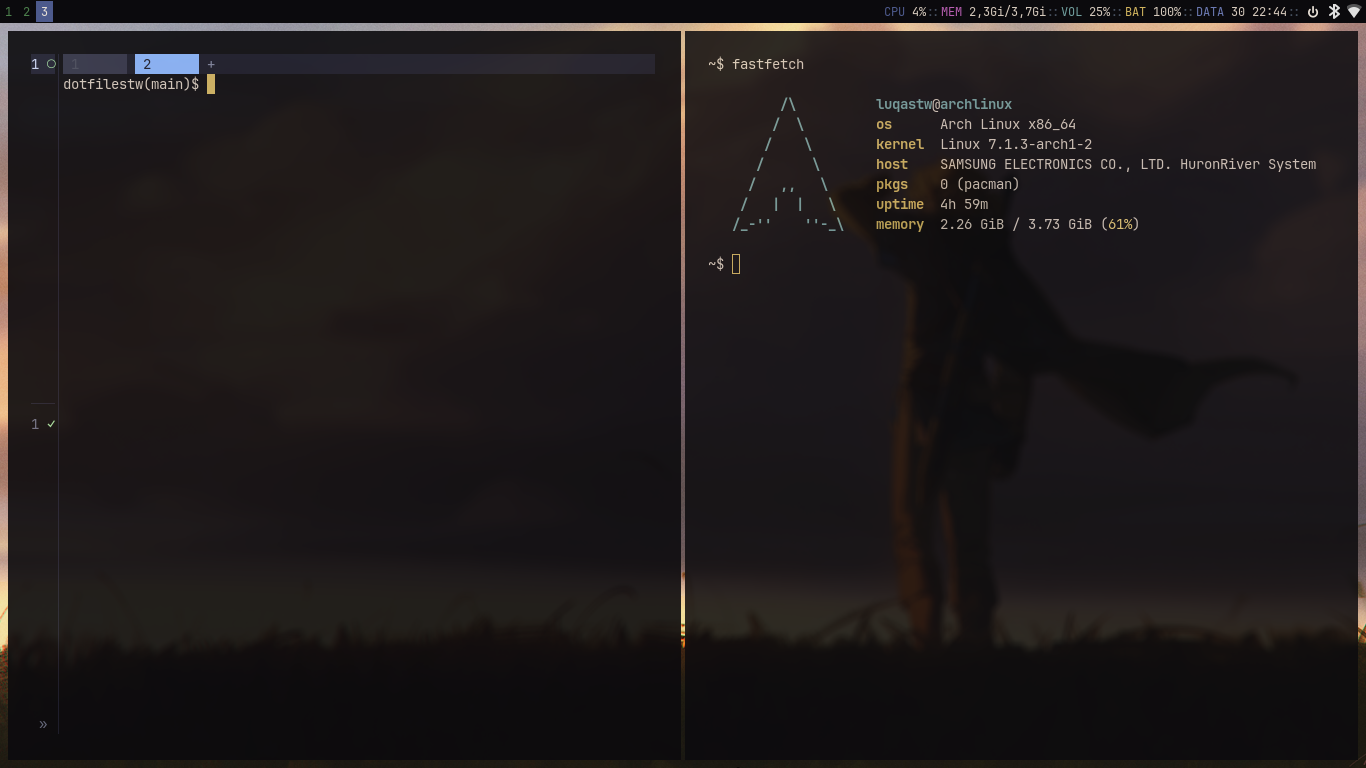
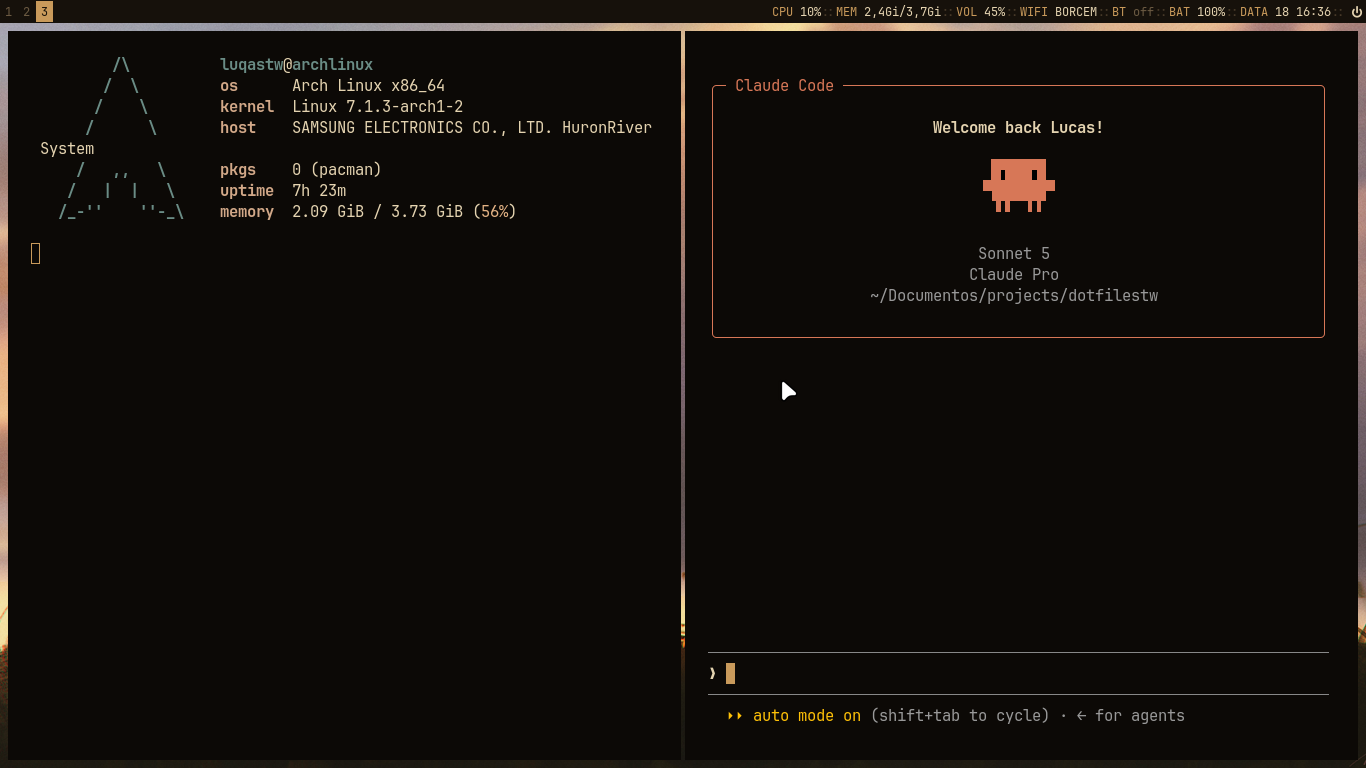
docs: update README for rofi and refresh screenshots

diff --git a/README.md b/README.md
@@ -1,6 +1,7 @@
 # dotfilestw 🌇
 
 ![](screenshots/desktop.png)
+![](screenshots/rofi.png)
 ![](screenshots/split-terminals.png)
 
 My personal Arch Linux rice: i3wm + Alacritty + picom + dunst, tied together with
@@ -57,7 +58,7 @@ For additional details or troubleshooting, visit the [issues page](https://githu
 | Action              | Keybind             | Description                    |
 |----------------------|----------------------|---------------------------------|
 | Terminal             | `SUPER + RETURN`     | Launch Alacritty                |
-| App Launcher         | `SUPER + D`          | Launch dmenu                    |
+| App Launcher         | `SUPER + D`          | Launch rofi (`drun`)            |
 
 ---
 
@@ -65,10 +66,15 @@ For additional details or troubleshooting, visit the [issues page](https://githu
 
 | Action                    | Keybind                  | Description                          |
 |----------------------------|----------------------------|----------------------------------------|
-| Screenshot (full, clipboard) | `SUPER + F11`            | Copy full screenshot via maim + xclip |
+| Screenshot (full, clipboard) | `SUPER + F11`            | Copy full screenshot via maim + xclip, notify-send confirms |
 | Screenshot (select, clipboard) | `SUPER + SHIFT + F11`  | Copy selected-area screenshot         |
 | Screenshot (scrot)         | `SUPER + Z` then `S`      | Enter special mode, take scrot -s     |
-| Power Menu                | Click power block on bar  | Runs `power_dmenu.sh` (lock/exit/suspend/reboot/shutdown) |
+| Toggle Scratchpad Terminal  | `SUPER + minus`          | Show/hide dropdown Alacritty (auto-spawns) |
+| Stash Window to Scratchpad  | `SUPER + SHIFT + minus`  | Move focused window to the general scratchpad pool |
+| Cycle Scratchpad Pool       | `SUPER + equal`          | Show next stashed scratchpad window |
+| Power Menu                | Click power block on bar  | Runs `power_dmenu.sh` (rofi: lock/exit/suspend/reboot/shutdown) |
+| Wifi Toggle / Manage       | Click / right-click wifi block on bar | Toggles radio via nmcli, right-click opens `nmtui` |
+| Bluetooth Toggle / Manage  | Click / right-click BT block on bar | Toggles power via bluetoothctl, right-click opens `blueman-manager` |
 | Volume Up/Down/Mute        | `XF86AudioRaiseVolume` / `LowerVolume` / `Mute` | Adjusts volume via pactl |
 
 ---
@@ -178,7 +184,7 @@ Prefix key is `F12`.
 - Terminal workspace manager: **[herdr](https://herdr.dev)**
 - Compositor: **[picom](https://github.com/yshui/picom)**
 - Notifications: **[dunst](https://github.com/dunst-project/dunst)**
-- Launcher: **[dmenu](https://tools.suckless.org/dmenu/)**
+- Launcher: **[rofi](https://github.com/davatorium/rofi)**
 - Wallpaper: **[nitrogen](https://github.com/l3ib/nitrogen)**
 - Editor: **[Neovim](https://github.com/neovim/neovim)** ([LazyVim](https://github.com/LazyVim/LazyVim))
 - System info: **[fastfetch](https://github.com/fastfetch-cli/fastfetch)**
@@ -187,4 +193,5 @@ Prefix key is `F12`.
 ## Screenshots
 
 ![](screenshots/desktop.png)
+![](screenshots/rofi.png)
 ![](screenshots/split-terminals.png)
